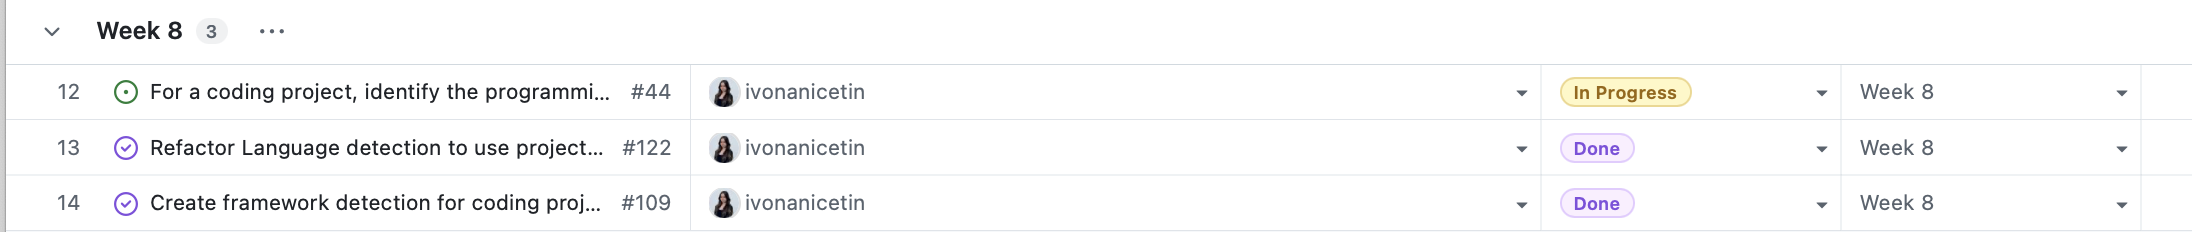
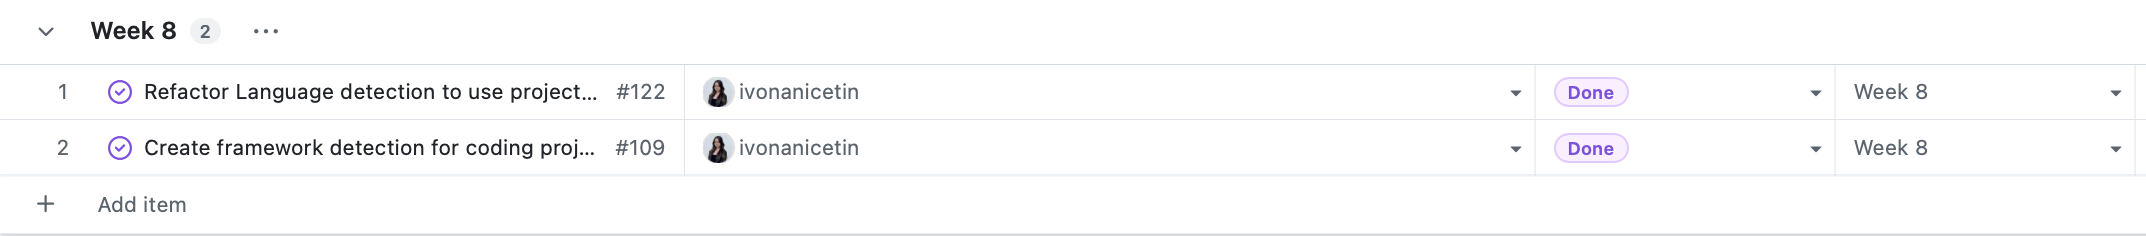
Update team log

diff --git a/docs/logs/Team-Log.md b/docs/logs/Team-Log.md
@@ -221,5 +221,5 @@ This week, the team focused on improving the analysis pipeline, database consist
 | `taoTimTim`     | ![Completed tasks for Timmi](screenshots/Completed-Timmi-Oct20-Oct26.png)   |
 
 ### Table view of in progress tasks by username
-
-Not applicable – no tasks in progress.
+| `ivonanicetin`  | ![In-Progress Task for Ivona](screenshots/In-Progress-Ivona-Oct20-Oct26.png)   |
+| `salmavkh`      | ![In-Progress Task for Salma](screenshots/In-Progress-Salma-Oct20-Oct26.png)   |
